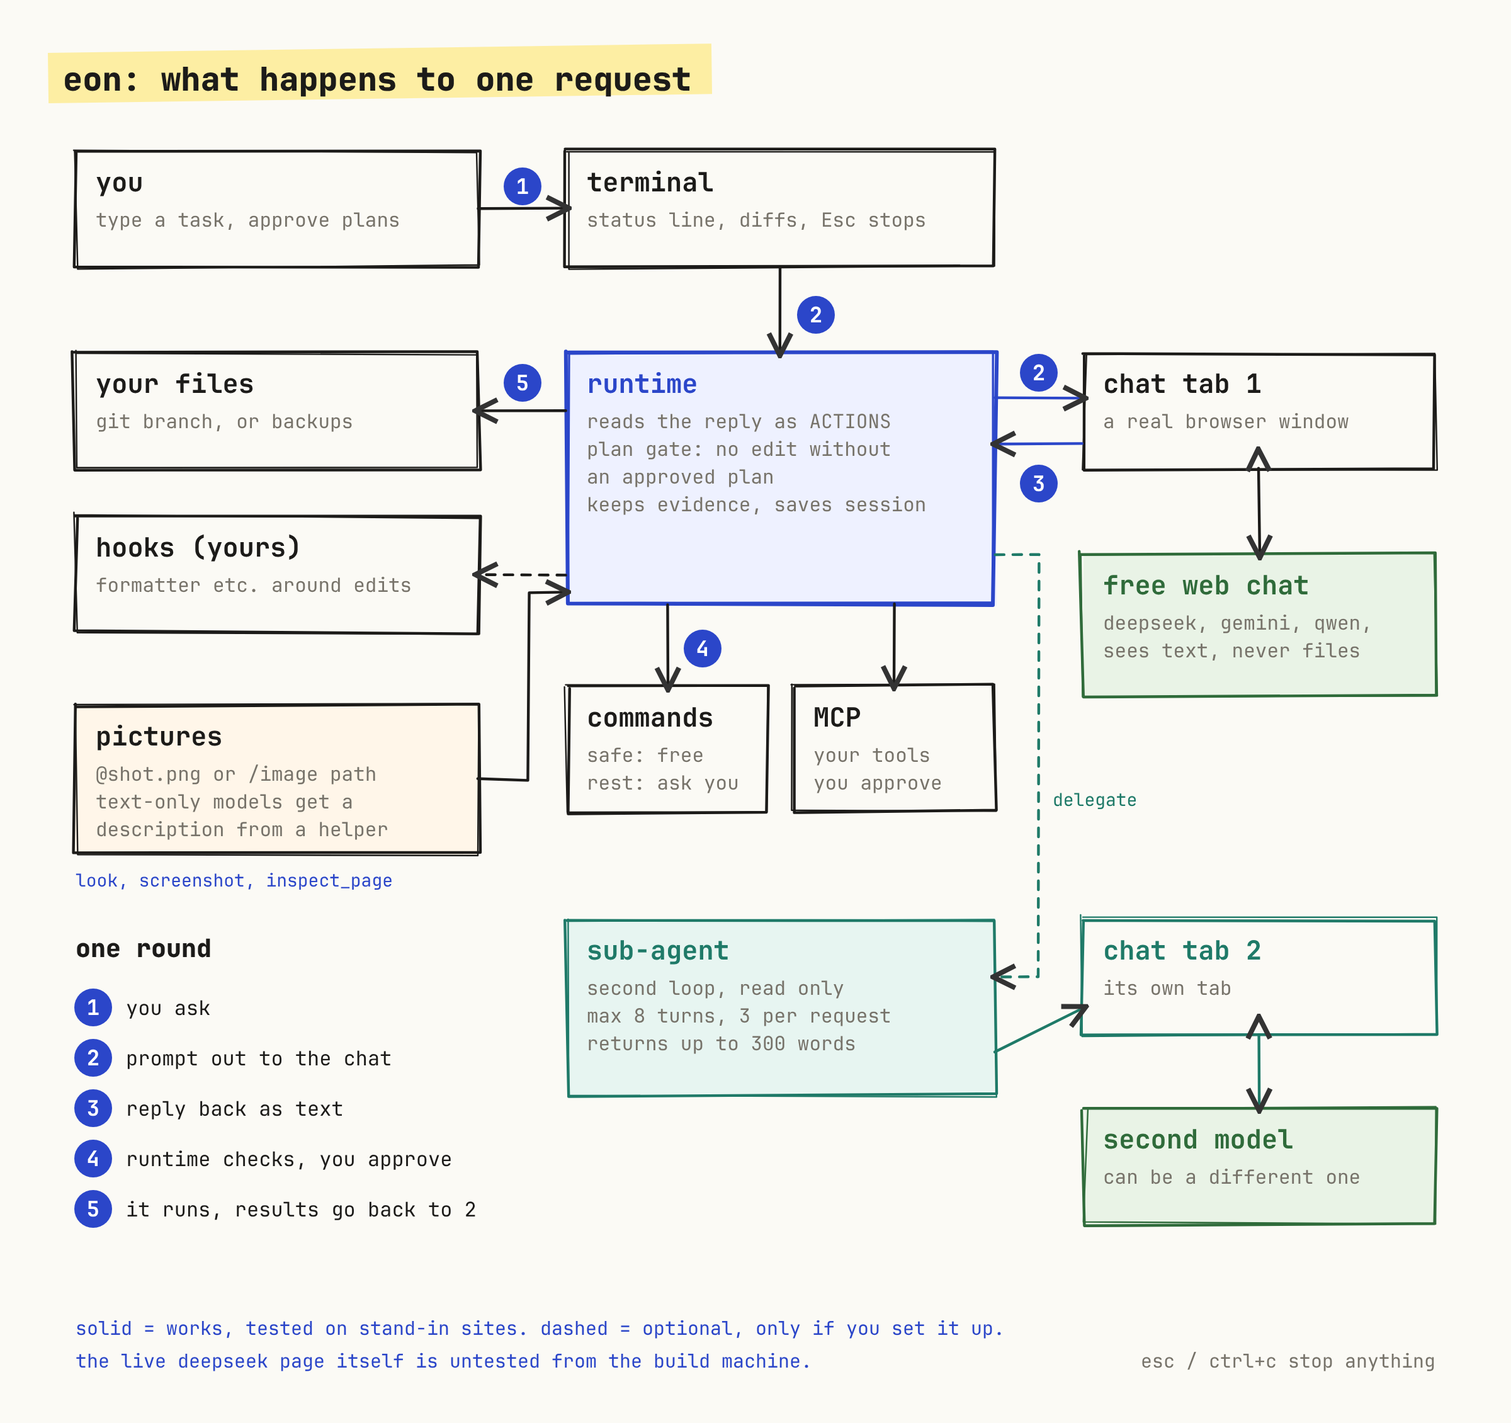
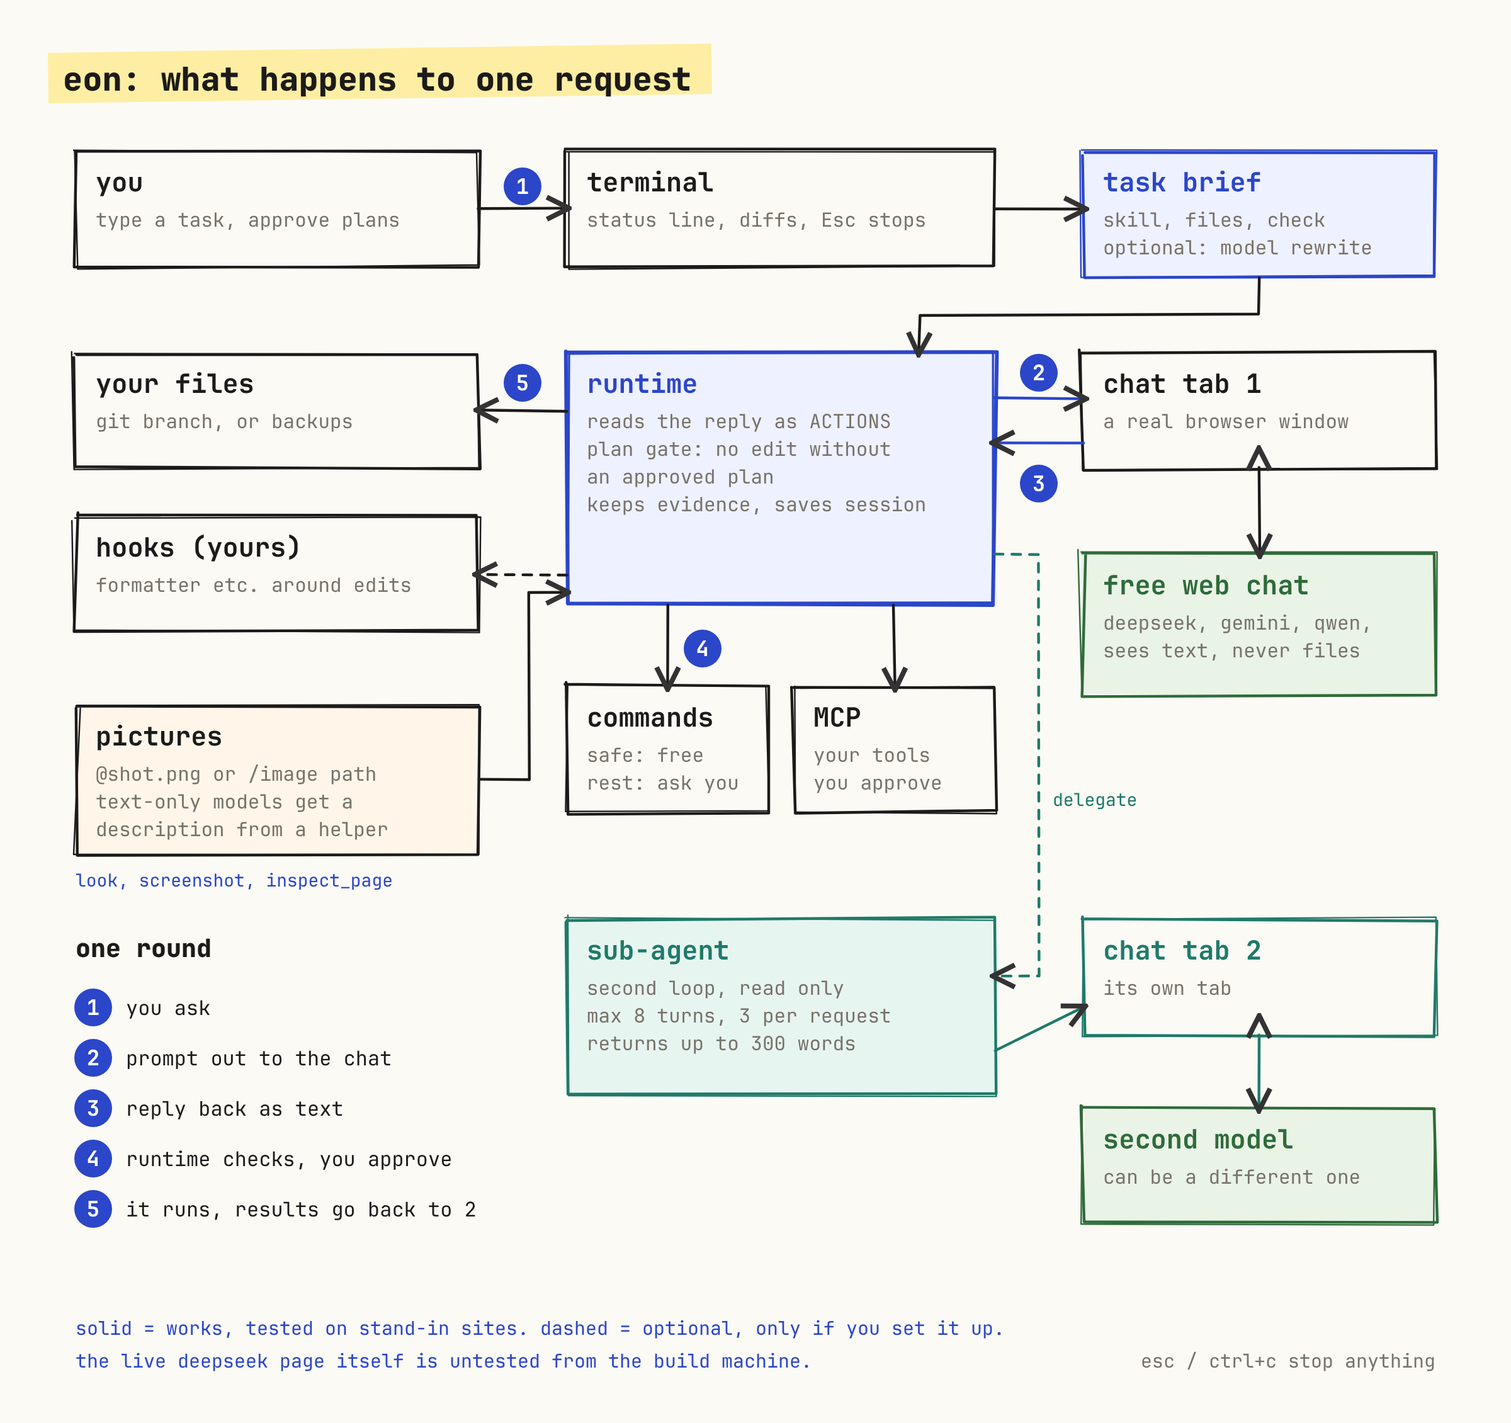
Add --rewrite: the model restates the request first, you approve it; task brief shown in the flow chart; version 0.6.0

diff --git a/src/runtime.js b/src/runtime.js
@@ -52,7 +52,7 @@ export const LIVE_MODES = ['guided', 'accept', 'research'];
 export const LEVELS = ['focused', 'quick', 'architect'];
 
 export class Runtime {
-  constructor({ root, provider, models = null, resume = null, sleep = (ms) => new Promise((r) => setTimeout(r, ms)), ui, reviewer = null, researcher = null, allow = [], allowHosts = [], fetcher = fetchDoc, mode = 'guided', level = 'focused', inPlace = false, noGit = false, agentFactory = null, visionFactory = null, brief = true, isChild = false, budgetChars = 120000, maxTurns = 80 }) {
+  constructor({ root, provider, models = null, resume = null, sleep = (ms) => new Promise((r) => setTimeout(r, ms)), ui, reviewer = null, researcher = null, allow = [], allowHosts = [], fetcher = fetchDoc, mode = 'guided', level = 'focused', inPlace = false, noGit = false, agentFactory = null, visionFactory = null, brief = true, rewrite = false, isChild = false, budgetChars = 120000, maxTurns = 80 }) {
     if (!MODES.includes(mode)) throw new Error(`unknown mode "${mode}" (use ${MODES.join(', ')})`);
     if (!LEVELS.includes(level)) throw new Error(`unknown level "${level}" (use ${LEVELS.join(', ')})`);
     // Everything shown to the user is also written to the session record, so the session can be shown again later.
@@ -69,7 +69,7 @@ export class Runtime {
       update: (snap) => raw.update?.(snap),
       ...(raw.event ? { event: (e) => raw.event(e) } : {}),
     };
-    Object.assign(this, { resume, tasks: [], root: fs.realpathSync(root), provider, ui, reviewer, researcher, allow, allowHosts: new Set(allowHosts), fetcher, mode, level, inPlace, noGit, backup: null, usage: {}, agentFactory, visionFactory, briefOn: brief, visionHelper: null, pendingImages: [], inputImages: [], isChild, budgetChars, maxTurns, child: null, delegations: 0, mcpAllowed: new Set() });
+    Object.assign(this, { resume, tasks: [], root: fs.realpathSync(root), provider, ui, reviewer, researcher, allow, allowHosts: new Set(allowHosts), fetcher, mode, level, inPlace, noGit, backup: null, usage: {}, agentFactory, visionFactory, briefOn: brief, rewriteOn: rewrite, visionHelper: null, pendingImages: [], inputImages: [], isChild, budgetChars, maxTurns, child: null, delegations: 0, mcpAllowed: new Set() });
     this.agents = loadAgents(this.root);
     this.skills = loadSkills(this.root);
     this.mcp = new McpHub(this.root);
@@ -328,6 +328,7 @@ export class Runtime {
       Object.assign(this, { plan: null, review: null, approved: false, everApproved: false, replans: 0, quick: { files: new Set(), lines: 0 } });
       this.approvedSteps.clear();
       this.doneSteps.clear();
+      await this.#rewrite();
       msg = followUpPrompt({ task: this.task, lessons: this.surfaced, branch: this.branch, interrupted, notice: this.notice });
       this.notice = '';
       // After /compact the chat is new, so the instructions go first again.
@@ -337,6 +338,7 @@ export class Runtime {
       this.provider = this.models.plan;
       await this.provider.newChat();
       this.chatOpen = this.provider;
+      await this.#rewrite();
       msg = this.#seed();
     }
 
@@ -706,6 +708,43 @@ Tool result ids up to r${this.n} exist and can still be used as pointers. Re-rea
     const { exit, output } = await runCommand(this.cwd, a.cmd);
     this.#note(color.dim(`    exit ${exit}`));
     return { text: `$ ${a.cmd}\nexit ${exit}\n${output}` };
+  }
+
+  /**
+   * Optional (--rewrite): one extra message in which the model restates a short request as a precise task
+   * (goal, scope, how we will know it is done). You see it and can accept it, keep your own words, or type a better one.
+   * Any failure leaves your original words in place.
+   */
+  async #rewrite() {
+    if (!this.rewriteOn || this.isChild || this.stopRequested) return;
+    const original = this.task;
+    if (String(original).trim().length < 8 || /^Use the skill "/.test(original)) return;
+    let brief = null;
+    try { brief = this.briefOn ? buildBrief(original, { root: this.cwd, skills: this.skills }) : null; } catch { /* no brief */ }
+    this.ui.print(color.dim('  asking the model to restate your request as a precise task...'));
+    const ask = `Before we start, restate this short request as a precise task for yourself. Reply in plain text, at most 120 words, no JSON, no actions, exactly in this form:
+GOAL: one sentence
+SCOPE: the files or areas involved, and what is out of scope
+DONE WHEN: 2 to 4 checks anyone could run (name the command)
+ASK FIRST: one question, only if something essential is unclear; otherwise the word nothing
+Do not solve it yet.
+
+REQUEST: ${original}${brief ? `\n\n${brief.text}` : ''}`;
+    let reply = '';
+    try { reply = String(await this.#send(ask)); } catch (e) { if (e instanceof LimitError || e instanceof Interrupted) throw e; return; }
+    const goal = /^GOAL:\s*\S/m.test(reply) && !/\{\s*"action"/.test(reply) ? reply.trim() : null;
+    if (!goal || goal.length > 1800) { this.ui.print(color.dim('  (the model did not answer in the right form, so your own words are used)')); return; }
+    const first = (k) => (new RegExp(`^${k}:\\s*(.+)$`, 'm').exec(goal)?.[1] ?? '').trim();
+    let text = goal.replace(/^ASK FIRST:.*$/m, '').replace(/\n{3,}/g, '\n\n').trim();
+    const question = first('ASK FIRST');
+    this.ui.print(`${color.bold('Eon understood your request as:')}\n${text.split('\n').map((l) => `  ${l}`).join('\n')}`);
+    let answer = '';
+    if (!this.auto && question && !/^(nothing|none|no|n\/a)\b/i.test(question)) answer = (await this.#confirm(`${color.bold('The model asks first:')} ${question}\n> `, '')).trim();
+    if (answer) text += `\nUser's answer to "${question}": ${answer}`;
+    const pick = (await this.#confirm('Use this? [y]es / [o]riginal words / or type a better version: ', 'y', { edit: true })).trim();
+    if (/^o(riginal)?$/i.test(pick)) { this.ui.print(color.dim('  Using your own words.')); return; }
+    const chosen = pick && !/^y(es)?$/i.test(pick) ? pick : text;
+    this.task = `${chosen}\n\n(The user's own words were: "${String(original).split('\n')[0].slice(0, 300)}")`;
   }
 
   /** The model that can see, when the main one cannot. Made on first use. */

diff --git a/test/eon.test.js b/test/eon.test.js
@@ -2070,3 +2070,65 @@ test('brief: it reaches the model with the first message, says what it added, an
   await new Runtime({ root, provider: off, ui: new ScriptedUI(() => 'y'), mode: 'research', brief: false }).run('fix the wrold typo in greet.js');
   assert.doesNotMatch(off.sent[0], /TASK BRIEF/);
 });
+
+// ---- rewrite (the bigger version) ----
+
+test('rewrite: the model restates the request first; you can accept it, keep your words, or type a better one', async () => {
+  const root = tempRepo();
+  fs.writeFileSync(path.join(root, 'package.json'), JSON.stringify({ scripts: { test: 'node --test' } }));
+  const restated = 'GOAL: Correct the misspelled name in greet.js so it prints "hello world".\nSCOPE: greet.js only; no other files.\nDONE WHEN: `node greet.js` prints hello world; `npm test` still passes.\nASK FIRST: nothing';
+  const run = async ({ replies, answers, mode = 'guided', rewrite = true }) => {
+    const provider = new MockProvider(replies);
+    const asked = [];
+    const ui = new ScriptedUI((q) => { asked.push(q); return answers.shift() ?? ''; });
+    await new Runtime({ root, provider, ui, mode, rewrite }).run('fix the wrold typo in greet.js');
+    return { provider, ui, asked };
+  };
+  const done = block({ action: 'done', summary: 'x' });
+
+  // accepted with Enter: the rewrite request goes first, the seed carries the restated task
+  const a = await run({ replies: [restated, done], answers: [''] });
+  assert.equal(a.provider.sent.length, 2, 'exactly one extra message');
+  assert.match(a.provider.sent[0], /^Before we start, restate this short request[\s\S]*REQUEST: fix the wrold typo in greet\.js[\s\S]*TASK BRIEF/);
+  assert.doesNotMatch(a.provider.sent[0], /You are the reasoning engine/, 'the instructions are not sent twice');
+  assert.match(a.provider.sent[1], /You are the reasoning engine of Eon[\s\S]*GOAL: Correct the misspelled name[\s\S]*DONE WHEN: `node greet\.js`[\s\S]*The user's own words were: "fix the wrold typo in greet\.js"/);
+  assert.doesNotMatch(a.provider.sent[1], /ASK FIRST/);
+  assert.match(a.ui.lines.join('\n'), /Eon understood your request as:[\s\S]*GOAL: Correct the misspelled name/);
+  assert.match(a.asked.join('\n'), /Use this\? \[y\]es/);
+
+  // "o": keep the original words
+  const o = await run({ replies: [restated, done], answers: ['o'] });
+  assert.match(o.provider.sent[1], /TASK[\s\S]*fix the wrold typo in greet\.js/);
+  assert.doesNotMatch(o.provider.sent[1], /GOAL: Correct the misspelled/);
+
+  // typing a better version replaces it
+  const t = await run({ replies: [restated, done], answers: ['only touch line 1 of greet.js'] });
+  assert.match(t.provider.sent[1], /only touch line 1 of greet\.js[\s\S]*The user's own words were/);
+  assert.doesNotMatch(t.provider.sent[1], /GOAL: Correct/);
+
+  // a question from the model is put to you and the answer is kept
+  const q = await run({ replies: [restated.replace('ASK FIRST: nothing', 'ASK FIRST: Should the greeting keep the space?'), done], answers: ['yes keep it', ''] });
+  assert.match(q.asked.join('\n'), /The model asks first: Should the greeting keep the space\?/);
+  assert.match(q.provider.sent[1], /User's answer to "Should the greeting keep the space\?": yes keep it/);
+
+  // a bad reply (an action, no GOAL, too long) falls back to the original words with a plain note
+  for (const bad of [done, 'Sure, I will fix that now.', `GOAL: ${'x'.repeat(2000)}`]) {
+    const b = await run({ replies: [bad, done], answers: [] });
+    assert.equal(b.provider.sent.length, 2);
+    assert.doesNotMatch(b.provider.sent[1], /The user's own words were/);
+    assert.match(b.ui.lines.join('\n'), /did not answer in the right form, so your own words are used/);
+  }
+
+  // accept mode and autonomous mode do not stop to ask whether to use it
+  const acc = await run({ replies: [restated, done], answers: [], mode: 'accept' });
+  assert.match(acc.provider.sent[1], /GOAL: Correct the misspelled name/);
+  assert.equal(acc.asked.length, 0);
+
+  // off (the default): no extra message at all
+  const off = await run({ replies: [done], answers: [], rewrite: false });
+  assert.equal(off.provider.sent.length, 1);
+  // a request that already names a skill is not rewritten
+  const p = new MockProvider([done]);
+  await new Runtime({ root, provider: p, ui: new ScriptedUI(() => 'y'), mode: 'research', rewrite: true }).run('Use the skill "fix-bug" for this: the typo');
+  assert.equal(p.sent.length, 1);
+});

diff --git a/bin/eon.js b/bin/eon.js
@@ -90,6 +90,7 @@ Options
   --allow "<cmd>"       a command that may run without asking, e.g. --allow "npm test" (repeatable)
   --allow-host <host>   a documentation site that may be fetched without asking (repeatable)
   --in-place            use a new branch in this checkout instead of a worktree
+  --rewrite             the model restates each request as a precise task first (one extra message)
   --no-brief            do not expand short requests (skill, likely files, check command)
   --fast                quick level + accept mode: fewer round trips for small jobs
   --stdin               add text piped into eon to the task, e.g. git diff | eon -p "review this" --stdin
@@ -135,6 +136,7 @@ function parse(argv) {
     else if (a === '--fix') opts.fix = true;
     else if (a === '--fast') opts.fast = true;
     else if (a === '--no-brief') opts.noBrief = true;
+    else if (a === '--rewrite') opts.rewrite = true;
     else if (a === '--yes') opts.yes = true;
     else if (a === '--plain' || a === '-p') opts.plain = true;
     else if (a === '--continue' || a === '-c') opts.cont = true;
@@ -347,7 +349,7 @@ async function main() {
   const pendingPictures = [];
   const makeRuntime = (extra = {}) => new Runtime({
     root, models: models(), ui, reviewer: reviewerFor(opts.level), researcher: researcherFor(),
-    allow: opts.allow, allowHosts: opts.allowHost, mode: opts.mode, level: opts.level, inPlace: opts.inPlace, noGit: opts.noGit, brief: !opts.noBrief && config.brief !== false,
+    allow: opts.allow, allowHosts: opts.allowHost, mode: opts.mode, level: opts.level, inPlace: opts.inPlace, noGit: opts.noGit, brief: !opts.noBrief && config.brief !== false, rewrite: Boolean(opts.rewrite || config.rewrite === true),
     // A sub-agent gets its own browser tab, so the main chat is not disturbed.
     visionFactory: () => { try { return pool('vision', visionSpec(), opts.script, 'vision'); } catch { return null; } },
     agentFactory: (spec) => { try { return pool('agent', spec ?? firstOf(planSpec()), opts.script, 'sub-agent'); } catch { return null; } }, ...extra,
@@ -622,10 +624,11 @@ async function main() {
         return say('Commands always allowed in this project', `${rules.map((r, i) => `  ${i + 1}. ${r}`).join('\n') || color.dim('  (none)')}\n${color.dim('  A rule is an exact command, or ends in :* to allow anything after it (npm run:*).\n  Add: /permissions add <rule>   Remove: /permissions remove <number>')}${opts.allow.length ? `\n  Allowed for this run by --allow: ${opts.allow.join(' ; ')}` : ''}`);
       }
       case '/config': {
-        const keys = { bell: 'bell', splash: 'splash', pace: 'pace', mode: 'mode', level: 'level', model: 'model', 'plan-model': 'planModel', 'build-model': 'buildModel', 'vision-model': 'visionModel', 'update-check': 'updateCheck', brief: 'brief', reviewer: 'reviewer' };
+        const keys = { bell: 'bell', splash: 'splash', pace: 'pace', mode: 'mode', level: 'level', model: 'model', 'plan-model': 'planModel', 'build-model': 'buildModel', 'vision-model': 'visionModel', 'update-check': 'updateCheck', brief: 'brief', rewrite: 'rewrite', reviewer: 'reviewer' };
         const [key, ...val] = args;
         if (key && keys[key] && val.length) {
           const value = val.join('');
+          if (key === 'rewrite') { writeConfig({ rewrite: /^(on|yes|true)$/i.test(value) }); return ui.print(`Rewrite requests with the model: ${/^(on|yes|true)$/i.test(value) ? 'on (one extra message per request)' : 'off'} (applies to new sessions).`); }
           if (key === 'brief') { writeConfig({ brief: /^(on|yes|true)$/i.test(value) }); return ui.print(`Task brief: ${/^(on|yes|true)$/i.test(value) ? 'on' : 'off'} (applies to new sessions).`); }
           if (key === 'update-check') { writeConfig({ updateCheck: /^(on|yes|true)$/i.test(value) }); return ui.print(`Update notice: ${/^(on|yes|true)$/i.test(value) ? 'on' : 'off'}.`); }
           if (key === 'splash') { writeConfig({ splash: /^(on|yes|true)$/i.test(value) }); return ui.print(`Intro screen: ${/^(on|yes|true)$/i.test(value) ? 'on' : 'off'}.`); }

diff --git a/test/web.test.js b/test/web.test.js
@@ -324,3 +324,22 @@ test('a picture is uploaded through the page\'s hidden file box, with the messag
     bareServer = bare;
   } finally { await closeBrowser(); await fake.close(); await bareServer?.close(); }
 });
+
+test('rewrite through a real browser: the restated task is sent first, shown, accepted, and the run finishes', { timeout: 120000 }, async (t) => {
+  if (!chromium) return t.skip('Playwright is not installed here');
+  const root = fs.realpathSync(fs.mkdtempSync(path.join(os.tmpdir(), 'eon-rw-')));
+  fs.writeFileSync(path.join(root, 'greet.js'), 'const name = "wrold";\nconsole.log("hello " + name);\n');
+  execSync('git init -q && git add -A && git -c user.name=t -c user.email=t@t commit -q -m start', { cwd: root });
+  const restated = 'GOAL: Correct the misspelled name in greet.js.\nSCOPE: greet.js only.\nDONE WHEN: node greet.js prints hello world.\nASK FIRST: nothing';
+  const fake = await startFakeChat({ stream: true }, [restated, `Done.\n${block({ action: 'done', summary: 'looked' })}`]);
+  const chat = new WebChat('deepseek', { ui: new ScriptedUI(), minGapMs: 0, jitterMs: 0, stableMs: 400, selectors: { url: fake.url, input: '.composer', message: '.reply', stop: '.generating' } });
+  const ui = new ScriptedUI(() => '');
+  try {
+    const result = await new Runtime({ root, provider: chat, ui, mode: 'research', rewrite: true }).run('fix the wrold typo in greet.js');
+    assert.equal(result.status, 'done');
+    assert.equal(fake.received.length, 2, 'one rewrite message, then the seed');
+    assert.match(fake.received[0], /^Before we start, restate this short request[\s\S]*REQUEST: fix the wrold typo/);
+    assert.match(fake.received[1], /GOAL: Correct the misspelled name in greet\.js\.[\s\S]*The user's own words were/);
+    assert.match(ui.lines.join('\n'), /Eon understood your request as:[\s\S]*GOAL: Correct the misspelled name/);
+  } finally { await closeBrowser(); await fake.close(); }
+});

diff --git a/tools/diagram.py b/tools/diagram.py
@@ -57,7 +57,9 @@ node(C, 120, CW, 92, 'terminal', ['status line, diffs, Esc stops'])
 arrow([(L + LW, 166), (C, 166)]); num(L + LW + 35, 148, 1)
 
 node(C, 280, CW, 200, 'runtime', ['reads the reply as ACTIONS', 'plan gate: no edit without', 'an approved plan', 'keeps evidence, saves session'], BLUE, fill='#eef1ff', sw=3)
-arrow([(C + CW / 2, 212), (C + CW / 2, 280)]); num(C + CW / 2 + 28, 250, 2)
+node(R, 120, RW, 100, 'task brief', ['skill, files, check', 'optional: model rewrite'], BLUE, fill='#eef1ff', tcol=BLUE)
+arrow([(C + CW, 166), (R, 166)])
+arrow([(R + RW / 2, 220), (R + RW / 2, 250), (C + CW - 60, 250), (C + CW - 60, 280)])
 
 # left of runtime
 node(L, 280, LW, 92, 'your files', ['git branch, or backups'])

diff --git a/README.md b/README.md
@@ -41,7 +41,7 @@ Type a task. Eon reads your code, shows a plan with the evidence behind each cla
 - **Sub-agents, MCP servers, hooks.** Read-only helpers in their own chat tab, any MCP tool server (`eon mcp add`), and your own commands around edits.
 - **Pictures.** `@screenshot.png`; models that cannot see get a description from one that can.
 - **Skills.** Short recipes the model loads when a task matches (17 come built in: `fix-bug`, `tdd`, `add-tests`, `review-changes`, `security-review`, `simplify`, `refactor-safely`, `debug-ci`, `find-regression`, `performance`, `upgrade-deps`, `write-docs`, `commit-message`, `plan-feature`, `explain-code`, `ui-work`, `accessibility-audit`). Run one with `/fix-bug the login test fails`, or write your own with `/skills new <name>`. A recipe up front means fewer wasted round trips.
-- **Short requests become full briefs.** Type "fix the login bug" and Eon, locally and with no extra model call, adds the skill that fits, the files a search says are most likely involved, and the command that proves the fix (your test command). You see one line saying what was added (`brief added: skill fix-bug · 2 likely files · check: npm test`). Turn it off with `/config brief off` or `--no-brief`.
+- **Short requests become full briefs.** Type "fix the login bug" and Eon, locally and with no extra model call, adds the skill that fits, the files a search says are most likely involved, and the command that proves the fix (your test command). You see one line saying what was added (`brief added: skill fix-bug · 2 likely files · check: npm test`). Turn it off with `/config brief off` or `--no-brief`. For vaguer requests, `--rewrite` goes further: the model first restates your request as a goal, scope and "done when" checks, you approve or edit it, and then the work starts (one extra message; `/config rewrite on` to keep it on).
 - **Fast mode.** `eon --fast` uses quick level and accept mode: small edits skip the plan, so a small job takes a few messages instead of many.
 - **Memory and lessons.** `EON.md` and memory files, plus rules it learns from its own mistakes.
 - **Safe by default.** Refuses your home folder, asks before commands, redacts secrets, never logs in to GitHub and never pushes.

diff --git a/docs/guide.md b/docs/guide.md
@@ -375,6 +375,8 @@ Before the first message of each request, Eon looks at your words and adds three
 2. **Likely files.** Up to three keywords (quoted text, code-looking names such as `checkPassword`, then longer plain words) are searched in the project; files with the most hits are listed with the first matching line. The model is told to read them before assuming.
 3. **A check.** The project's test, build or lint command (found in `package.json`, `pyproject.toml`, `go.mod` and so on) is named as the way to prove the change, so the plan's validation starts from something real.
 
+**Rewrite mode (`--rewrite`, or `/config rewrite on`).** The bigger version: before the work starts the model gets one extra message asking it to restate your request in a fixed form (GOAL, SCOPE, DONE WHEN, and one question only if something essential is unclear). You see the result and choose: Enter to use it, `o` to keep your own words, or type a better version. The brief above is included so the restatement is grounded in your files. In accept and autonomous modes it is used without asking. If the model answers in the wrong form, Eon says so and uses your words. It costs one message per request, so it is off by default; it helps most when you type very short or vague requests.
+
 One dim line tells you what was added. It is a guess made by pattern matching, so the model is told to ignore a skill that does not fit. Off: `/config brief off` or `--no-brief`.
 
 ## Updating, exporting and repairing
